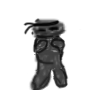
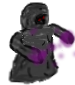
got em

diff --git a/source/adventuregame/src/game/classtype/ClasstypeNecromancer.java b/source/adventuregame/src/game/classtype/ClasstypeNecromancer.java
@@ -245,6 +245,9 @@ public class ClasstypeNecromancer extends Classtype {
         if (this.gharacter.state != State.ABILITY1) {
             this.ability1Reset();
         }
+        if (this.gharacter.state != State.ABILITY3) {
+            this.ability3Reset();
+        }
 
     }
 
@@ -348,7 +351,7 @@ public class ClasstypeNecromancer extends Classtype {
      * Ability 2
      */
     public int ability2AT = 24;
-    public double ability2Cost = 20;
+    public double ability2Cost = 60;
     public int ability2ExecFrame = 2;
     public int ability2CD = 2 + ability2AT;
     public int ability2CDTimer = 0;
@@ -407,17 +410,17 @@ public class ClasstypeNecromancer extends Classtype {
      * Ability 3
      */
     public int ability3AT = 20;
-    public double ability3Cost = 40;
+    public double ability3Cost = 1;
     public int ability3ExecFrame = 2;
     public int ability3CD = 30 + ability3AT;
     public int ability3CDTimer = 0;
     
     public int ability3ActingTime = 0;
 
-    public double ability3Damage = 1;
-    public double ability3heal = 0.1 * ability3Damage;
+    public double ability3Damage = 0.15;
+    public double ability3heal = 1.0 * ability3Damage;
     public int ability3Stun = 2;
-    public double ability3Range = 20;
+    public double ability3Range = 25;
     public double ability3speed = 1;
 
     private void initAbility3() {
@@ -437,21 +440,32 @@ public class ClasstypeNecromancer extends Classtype {
     }
 
     private void execAbility3() {
+        if (this.gharacter.energy < this.ability3Cost){
+            return;
+        }
+        this.gharacter.energy -= this.ability3Cost;
         this.gharacter.interruptActionTimer();
         this.gharacter.setActionTimer(this.ability3ExecFrame);
         double range;
         int maxTravelFrame = (int)(this.ability3Range / this.ability3speed);
         range = (((double)this.ability3ActingTime) / ((double)maxTravelFrame) * ((double)this.ability3Range));
-        System.out.println(this.gharacter.position.x);
-        System.out.println(range + "\n");
+        //System.out.println(this.gharacter.position.x);
+        //System.out.println(range + "\n");
         Gharacter v = Game.instance.space.trace(this.gharacter,
                                                 !this.gharacter.isAlly(), range,
                                                 0.2);
+        
+        
         if (v != null){
             if (v.vulnerable(this.gharacter)){
                 v.damage(this.ability3Damage);
                 v.stun(this.ability3Stun);
-                range = Math.abs(v.position.x - this.gharacter.position.x);
+                this.ability3MinionHeal();
+                if ((this.gharacter.position.x < v.position.x) != ((this.gharacter.position.x + range) < v.position.x)){
+                    range = Math.abs(v.position.x - this.gharacter.position.x);
+                } else if (this.ability3ActingTime < maxTravelFrame){
+                    this.ability3ActingTime++;
+                }
             }
         } else if (this.ability3ActingTime < maxTravelFrame){
             this.ability3ActingTime++;
@@ -461,12 +475,33 @@ public class ClasstypeNecromancer extends Classtype {
         Spatial iPos = this.gharacter.position.copy();
         iPos.z = iPos.z + this.gharacter.size.z / 2;
         if (range < 1.01){ range = 1.01;}
-        iPos.x = iPos.x + (range * this.gharacter.x_orientation)/2;
-        Spatial iSize = new Spatial(range,2,4);
+        iPos.x = iPos.x + ((range + this.gharacter.size.x / 4) * this.gharacter.x_orientation)/2;
+        if (range > this.gharacter.size.x / 4){
+            range -= this.gharacter.size.x / 4;
+        }
+        Spatial iSize = new Spatial(range, 2, 4);
         int direction = (Game.instance.random.nextDouble() > 0.5) ? 1 : -1;
         ImageBox ib = new ImageBox(iPos, iSize, 1, direction);
         ib.setImage("necromancer", "DRAIN");
         Game.instance.space.addConstruct(ib);
+    }
+    
+    private void ability3MinionHeal(){
+        if (this.minions.size() > 0){
+            for (NonPlayerCharacter npc : ((ArrayList<NonPlayerCharacter>) (this.minions.clone()))) {
+                npc.heal(this.ability3heal);
+                ImageBox ib = new ImageBox(npc.position, npc.size, 5, npc.x_orientation);
+                ib.setImage("necromancer", "DARKHEAL");
+                Game.instance.space.addConstruct(ib);
+
+            }
+        }
+    }
+    
+    private void ability3Reset(){
+        if (this.gharacter.state != State.ABILITY3){
+            this.ability3ActingTime = 0;
+        }
     }
 
     private String ability3Image(String filename) {

diff --git a/source/adventuregame/src/game/Space.java b/source/adventuregame/src/game/Space.java
@@ -72,7 +72,7 @@ public class Space {
         }
         try {
             this.constructs.sort(null);//sort for view ordering
-        } catch (ArrayIndexOutOfBoundsException | ConcurrentModificationException | NoSuchElementException e) {
+        } catch (Exception e) {
             System.out.println("ERROR SORTING LIST - NONESSENTIAL");
         }
     }
@@ -103,7 +103,7 @@ public class Space {
         //System.out.println("SPACE: " + this.getConstructs());
         try {
             this.constructs.sort(null);//sort for view ordering
-        } catch (ArrayIndexOutOfBoundsException | ConcurrentModificationException e) {
+        } catch (Exception e) {
             System.out.println("ERROR SORTING LIST - NONESSENTIAL");
         }
         //setup update loop
@@ -206,15 +206,14 @@ public class Space {
     public Gharacter trace(Gharacter g, boolean allied, double limit,
                            double precision) {
         Spatial pos = g.position.copy();
-        pos.x = pos.x + (g.x_orientation * ((g.size.x/2) + precision));
         double initialX = pos.x;
+        pos.x = pos.x + (g.x_orientation * ((g.size.x/2) + precision));
         while ((!(outsideBounds(pos))) && (Math.abs(pos.x - initialX) < limit)) {
             for (Construct c : this.getConstructs()) {
                 if (c instanceof Gharacter) {
                     Gharacter b = (Gharacter) c;
                     if (b.isAlly() == allied) {
                         if (CollisionHandler.checkCollision(b.hitbox, pos)) {
-                            System.out.println(pos);
                             return b;
                         }
                     }

diff --git a/source/adventuregame/src/game/Game.java b/source/adventuregame/src/game/Game.java
@@ -86,10 +86,10 @@ public class Game {
         //npc.setClasstype(new ClasstypeViking(npc));
         //npc.setClasstype(new ClasstypeAssassin(npc));
         npc.setClasstype(new ClasstypeDummySkeleton(npc));
-        AISimple ai = new AISimple(npc);
+        //AISimple ai = new AISimple(npc);
         //ai.action = Command.ACTION1;
         //AISmack ai = new AISmack(npc);
-        //AIDummySkeleton ai = new AIDummySkeleton(npc);
+        AIDummySkeleton ai = new AIDummySkeleton(npc);
         AI gai = (AI) ai;
         npc.setAI(gai);
         Construct con = new Construct(new Spatial(10, 10, 0),
@@ -149,6 +149,8 @@ public class Game {
         ct = new ClasstypeViking(g);
         ct = new ClasstypeDummySkeleton(g);
         ct = new ClasstypeNecromancer(g);
+        AI ai = new AISimple(g);
+        ai = new AIDummySkeleton(g);
 
     }
 
